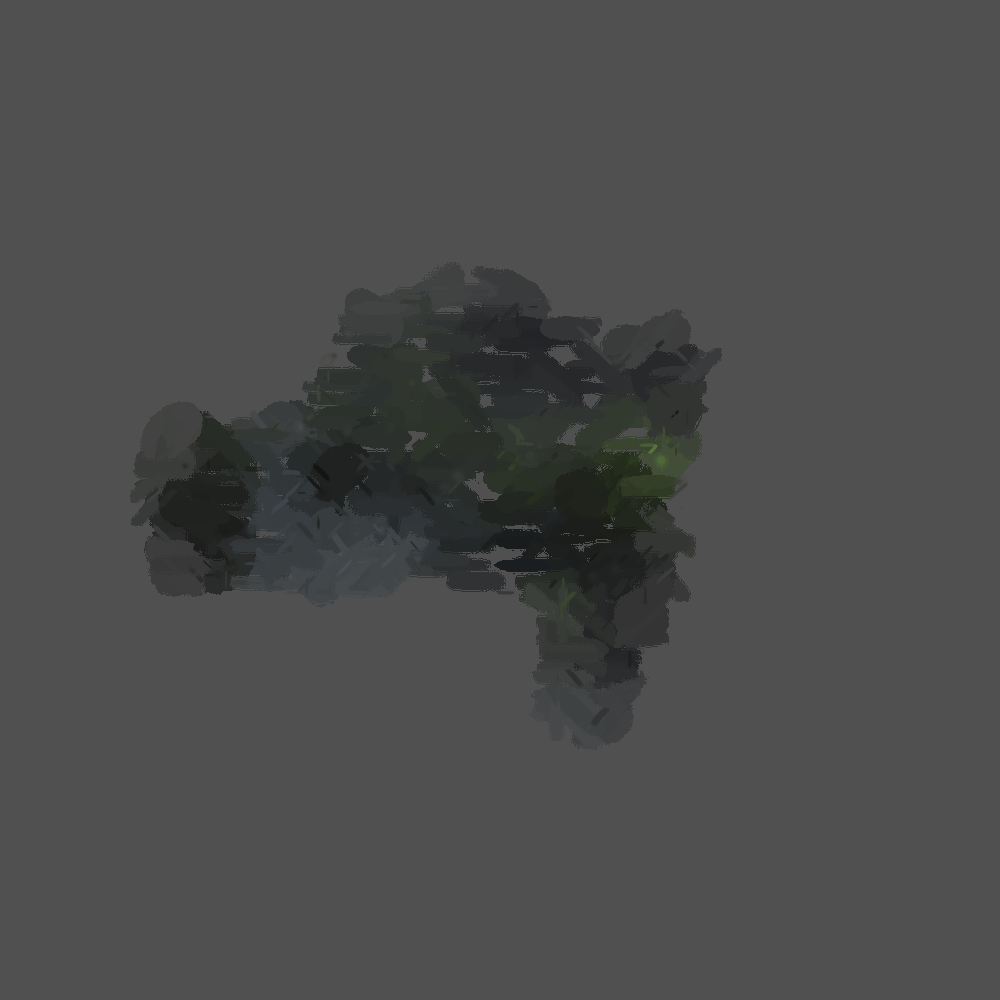
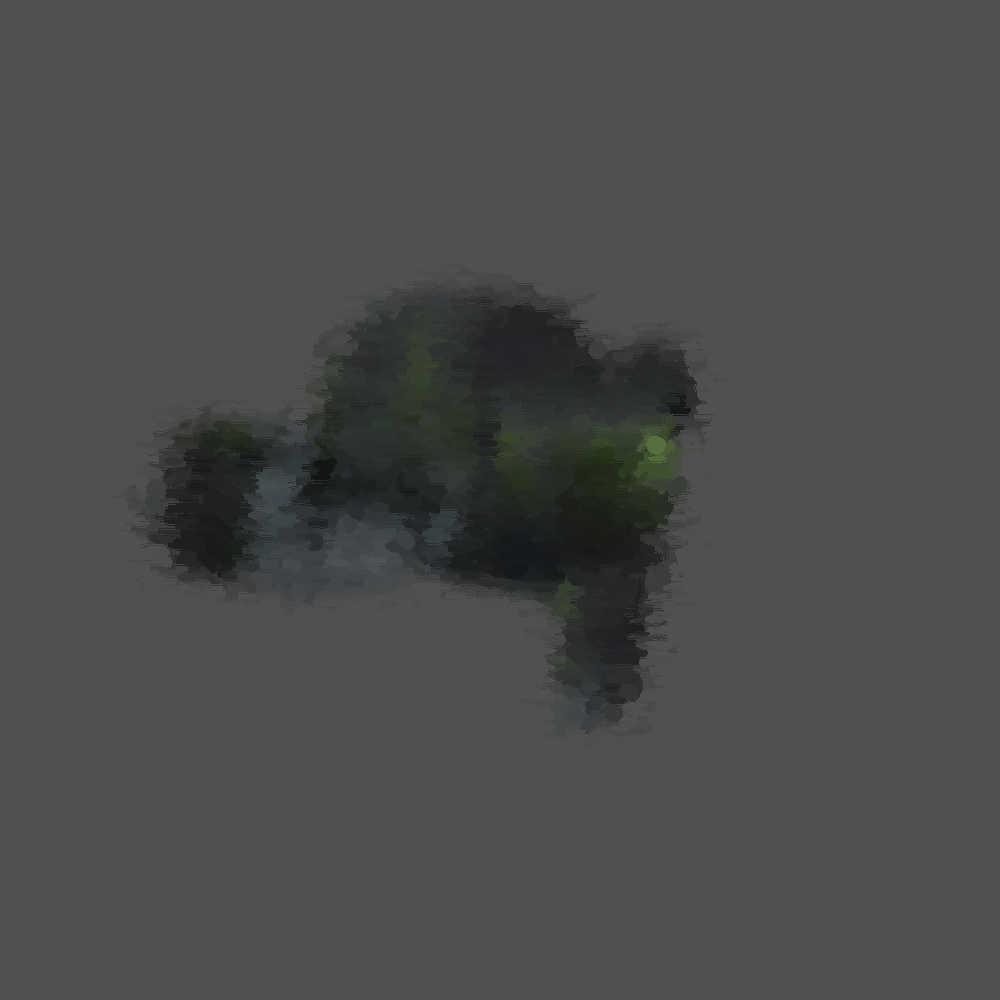
final code

diff --git a/paint.py b/paint.py
@@ -16,6 +16,7 @@ class Paint:
         self.brushes = {}
         
         self.brush_long = [60, 40 ,20]
+        # self.brush_short= []
         self.brush_short= [20, 10]
         
         brush_size=[60, 40, 20, 10]
@@ -209,7 +210,7 @@ class Paint:
         
         
         
-        fill = [0.98, 0.7, 0.5]
+        fill = [0.98, 0.8, 0.5]
         
         print('Painting')
         for brush_size, ratio in zip(self.brush_long, fill):
@@ -229,7 +230,7 @@ class Paint:
             self.set_paint_coords(paint_coords)
             
             
-        fill = [0.99, 0.97]
+        fill = [0.98, 0.8, 0.7]
         print('Gradient')
         for brush_size, ratio in zip(self.brush_short, fill):    
             while not self.is_filled_gradient_magnitude(fill_ratio=ratio):
